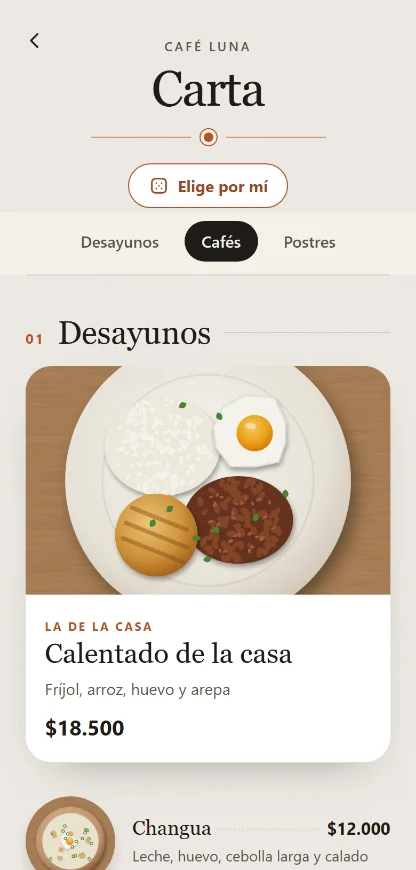
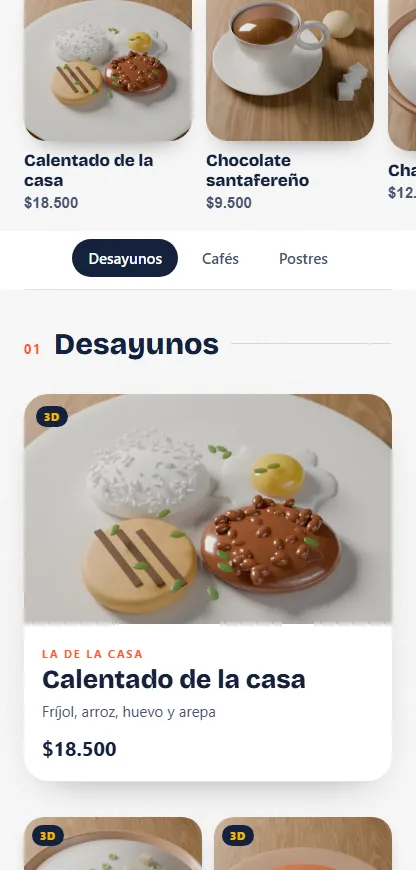
página de ventas al día y baldosas de la portada alineadas
- capturas del diseño C que se turnan en el celular de la portada, platos en 3D flotando
- sección nueva "El plato en 3D, y sobre su mesa" (3D, Verlo en tu mesa, Elige por mí, QR de compra)
- foco en restaurantes: menú, cinta y "Para quién"; gimnasios escondido por ahora
- portada del negocio: ícono y texto de las baldosas alineados a la izquierda

diff --git a/public/index.html b/public/index.html
@@ -66,6 +66,31 @@ nav .entrar:hover { text-decoration: underline; text-underline-offset: 4px; }
 .hero .vis { position: relative; height: 440px; border-radius: 28px; background: var(--arena); overflow: hidden; }
 .hero .tel { position: absolute; right: 8%; top: 32px; width: 210px; border-radius: 30px; border: 7px solid var(--tinta); background: var(--tinta); transform: rotate(4deg); box-shadow: 0 30px 40px -20px rgba(29,27,24,.45); }
 .hero .tel img { border-radius: 23px; width: 100%; height: auto; }
+.hero .pantallas { position: relative; aspect-ratio: 416 / 870; border-radius: 23px; overflow: hidden; }
+.hero .pantallas img { position: absolute; inset: 0; opacity: 0; animation: pantalla 12s infinite; }
+.hero .pantallas img:nth-child(1) { animation-delay: 0s; }
+.hero .pantallas img:nth-child(2) { animation-delay: 4s; }
+.hero .pantallas img:nth-child(3) { animation-delay: 8s; }
+@keyframes pantalla { 0% { opacity: 0; transform: scale(1.03); } 4%, 30% { opacity: 1; transform: none; } 36%, 100% { opacity: 0; } }
+.hero .flota { position: absolute; width: 110px; height: 110px; border-radius: 50%; object-fit: cover; box-shadow: 0 18px 30px -16px rgba(29,27,24,.55); border: 4px solid var(--blanco); animation: flota 6s ease-in-out infinite; }
+.hero .flota.f1 { left: 6%; top: 28px; }
+.hero .flota.f2 { left: 34%; top: 150px; width: 84px; height: 84px; animation-delay: -2s; }
+.hero .flota.f3 { right: 3%; bottom: 22px; width: 92px; height: 92px; animation-delay: -4s; }
+@keyframes flota { 0%, 100% { transform: translateY(0) rotate(-4deg); } 50% { transform: translateY(-12px) rotate(4deg); } }
+.lead-sec { max-width: 640px; margin-top: 14px; font-size: 18px; line-height: 1.5; color: var(--texto-2); }
+.vitrina { display: grid; gap: 16px; margin-top: 32px; }
+.vt { position: relative; display: flex; flex-direction: column; gap: 14px; padding: 20px; border-radius: 28px; background: var(--blanco); overflow: hidden; }
+.vt img { width: 100%; aspect-ratio: 1; object-fit: cover; border-radius: 20px; transition: transform .6s cubic-bezier(.2,.8,.2,1); }
+.vt:hover img { transform: scale(1.04) rotate(-1deg); }
+.vt h3 { font-family: var(--titulos); font-size: 22px; font-weight: 800; line-height: 1.15; }
+.vt p { margin-top: 6px; color: var(--texto-2); line-height: 1.45; }
+.vt .sello { position: absolute; top: 32px; left: 32px; padding: 5px 12px; border-radius: 99px; background: var(--tinta); color: #FFC93C; font: 800 13px var(--titulos); }
+.vt.oscura { background: var(--tinta); color: var(--blanco); }
+.vt.oscura p { color: #D8D2C8; }
+.vt.amarilla { background: #FFC93C; }
+.vt .dado { width: 64px; height: 64px; border-radius: 18px; display: grid; place-items: center; font-size: 34px; background: rgba(255,255,255,.14); animation: sacude 3s ease-in-out infinite; }
+.vt.amarilla .dado { background: rgba(29,27,24,.08); font-weight: 800; }
+@keyframes sacude { 0%, 70%, 100% { transform: rotate(0); } 76% { transform: rotate(-12deg); } 84% { transform: rotate(10deg); } 92% { transform: rotate(-6deg); } }
 .hero .punto { position: absolute; left: 8%; bottom: 36px; width: 128px; height: 128px; border-radius: 50%; background: var(--tinta); display: grid; place-items: center; transform: rotate(-8deg); }
 .hero .punto .ojo { width: 56px; height: 56px; overflow: visible; animation: late 1.2s ease .4s 1 both; }
 @keyframes late { 0% { transform: scale(1); } 35% { transform: scale(1.14); } 70% { transform: scale(.98); } 100% { transform: scale(1); } }
@@ -143,6 +168,9 @@ footer a { color: inherit; text-underline-offset: 3px; }
 footer { border-top: 1px solid var(--arena); padding: 24px 0 40px; display: flex; flex-wrap: wrap; gap: 8px 24px; justify-content: space-between; font-size: 14px; color: var(--gris); }
 
 @media (min-width: 900px) {
+  .vitrina { grid-template-columns: 1.3fr 1fr 1fr; grid-template-rows: auto auto; }
+  .vt.grande { grid-row: 1 / 3; }
+  .vt.grande img { aspect-ratio: 4 / 5; }
   :root { --lado: 24px; --entre-secciones: 128px; }
   body { font-size: 17px; }
   .et { font-size: 13px; }
@@ -241,7 +269,7 @@ footer { border-top: 1px solid var(--arena); padding: 24px 0 40px; display: flex
 <div class="w">
   <nav aria-label="Principal">
     <a class="logo" href="/" aria-label="Nef, inicio"><img src="/assets/marca/logo-nef.svg" alt="nef" width="96" height="36"></a>
-    <div class="links"><a href="#como-funciona">Cómo funciona</a><a href="#cafes">Cafés</a><a href="#gimnasios">Gimnasios</a><a href="#precios">Precios</a></div>
+    <div class="links"><a href="#como-funciona">Cómo funciona</a><a href="#carta-3d">Tu carta en 3D</a><a href="#cafes">Restaurantes</a><a href="#precios">Precios</a></div>
     <div class="acc"><a class="entrar" href="/panel">Entrar</a><a class="btn s js-wa" href="#cierre">Escríbenos</a></div>
   </nav>
 
@@ -258,11 +286,14 @@ footer { border-top: 1px solid var(--arena); padding: 24px 0 40px; display: flex
     </div>
     <!-- TODO(Jacobo): reemplazar por la foto real del sticker en una mesa (WebP, 1200×1400). Mientras tanto: la captura del portal. -->
     <div class="vis" aria-hidden="true">
-      <div class="tel"><img src="/assets/img/portal-cafe.webp" alt="" width="416" height="870" fetchpriority="high"></div>
+      <div class="tel"><div class="pantallas"><img src="/assets/img/portal-cafe.webp" alt="" width="416" height="870" fetchpriority="high"><img src="/assets/img/carta.webp" alt="" width="416" height="870" loading="lazy"><img src="/assets/img/monedas.webp" alt="" width="416" height="870" loading="lazy"></div></div>
+      <img class="flota f1" src="/assets/demo/huevos-rancheros.webp" alt="" width="600" height="600" loading="lazy">
+      <img class="flota f2" src="/assets/demo/chocolate.webp" alt="" width="600" height="600" loading="lazy">
+      <img class="flota f3" src="/assets/demo/torta-chocolate.webp" alt="" width="600" height="600" loading="lazy">
       <div class="punto"><span class="ondas"><i></i><i></i><i></i></span><svg class="ojo" viewBox="0 0 100 100" width="60" height="60" aria-hidden="true"><g class="globo"><circle cx="50" cy="50" r="42.32" fill="none" stroke="#FF6B35" stroke-width="7.36"/><g class="mira"><circle class="pupila" cx="50" cy="50" r="18.86" fill="#FF6B35"/></g></g></svg></div>
     </div>
   </header>
-  <div class="cinta" aria-hidden="true"><div><span>Cafés</span><span>Gimnasios</span><span>Panaderías</span><span>Restaurantes</span><span>Barberías</span><span>Heladerías</span><span>Salones</span><span>Cafés</span><span>Gimnasios</span><span>Panaderías</span><span>Restaurantes</span><span>Barberías</span><span>Heladerías</span><span>Salones</span></div></div>
+  <div class="cinta" aria-hidden="true"><div><span>Restaurantes</span><span>Asaderos</span><span>Comida típica</span><span>Pizzerías</span><span>Cafés</span><span>Brunch</span><span>Panaderías</span><span>Heladerías</span><span>Cevicherías</span><span>Parrillas</span><span>Restaurantes</span><span>Asaderos</span><span>Comida típica</span><span>Pizzerías</span><span>Cafés</span><span>Brunch</span><span>Panaderías</span><span>Heladerías</span><span>Cevicherías</span><span>Parrillas</span></div></div>
 
   <!-- 2. Cómo funciona -->
   <section class="sec" id="como-funciona">
@@ -278,13 +309,30 @@ footer { border-top: 1px solid var(--arena); padding: 24px 0 40px; display: flex
     </div>
   </section>
 
+  <!-- 2b. La carta en 3D -->
+  <section class="sec" id="carta-3d">
+    <div class="et">Tu carta, como nunca la han visto</div>
+    <h2 class="t1">El plato en 3D, y sobre su mesa.</h2>
+    <p class="lead-sec">Tus clientes giran el plato con el dedo antes de pedirlo y lo ven a tamaño real sobre su mesa. Sin apps.</p>
+    <div class="vitrina">
+      <article class="vt grande"><img src="/assets/demo/calentado.webp" alt="Calentado en 3D" width="600" height="600" loading="lazy"><span class="sello">3D</span>
+        <div><h3>Gíralo con el dedo</h3><p>Cada plato de tu carta en 3D, con sus colores reales. Así se antojan antes de pedir.</p></div></article>
+      <article class="vt"><img src="/assets/demo/chocolate.webp" alt="" width="600" height="600" loading="lazy">
+        <div><h3>"Verlo en tu mesa"</h3><p>Con la cámara, el plato aparece sobre su mesa a tamaño real. Saben cuánto es antes de pedirlo.</p></div></article>
+      <article class="vt oscura"><div class="dado" aria-hidden="true"><svg viewBox="0 0 24 24" width="34" height="34" fill="none" stroke="currentColor" stroke-width="2" stroke-linecap="round"><rect x="4" y="4" width="16" height="16" rx="4"/><path d="M9 9h.01M15 9h.01M12 12h.01M9 15h.01M15 15h.01"/></svg></div>
+        <div><h3>"Elige por mí"</h3><p>¿No saben qué pedir? Una tragamonedas con sonido gira tu carta y les sugiere un plato. Siempre algo disponible.</p></div></article>
+      <article class="vt amarilla"><div class="dado" aria-hidden="true"><svg viewBox="0 0 24 24" width="34" height="34" fill="none" stroke="currentColor" stroke-width="2"><rect x="4" y="4" width="6" height="6"/><rect x="14" y="4" width="6" height="6"/><rect x="4" y="14" width="6" height="6"/><path d="M14 14h2v2h-2zM18 18h2v2h-2z"/></svg></div>
+        <div><h3>Monedas con un QR</h3><p>El cajero marca lo que compró, el cliente escanea y gana monedas por el valor real. Sin digitar nada.</p></div></article>
+    </div>
+  </section>
+
   <!-- 3. Para cafés / Para gimnasios -->
   <section class="sec" id="cafes">
     <div class="et">Para quién</div>
-    <h2 class="t1">Para el café de la esquina y para el gimnasio de tres pisos.</h2>
+    <h2 class="t1">Para el restaurante del barrio y para la cadena con sedes.</h2>
     <div class="nichos">
       <article class="nicho cafe">
-        <div class="et">Cafés y restaurantes</div>
+        <div class="et">Restaurantes y cafés</div>
         <h3>La reseña llega justo después del postre.</h3>
         <ul>
           <li>Tu carta siempre al día: marcas "agotado" desde el celular y todas las mesas cambian.</li>
@@ -294,7 +342,7 @@ footer { border-top: 1px solid var(--arena); padding: 24px 0 40px; display: flex
         </ul>
         <div class="frase">"Este mes volvieron 184 clientes."<small>Así te lo dice el panel (ejemplo).</small></div>
       </article>
-      <article class="nicho gym" id="gimnasios">
+      <article class="nicho gym" id="gimnasios" hidden>
         <div class="et">Gimnasios</div>
         <h3>Sabe quién se va antes de que cancele.</h3>
         <ul>

diff --git a/public/assets/portal.css b/public/assets/portal.css
@@ -762,3 +762,4 @@ html.n-hoja-abierta, html.n-hoja-abierta body { overflow: hidden; overscroll-beh
 [data-tema="calido"] .pt-inicio .pt-enlaces.pt-puntos { display: flex; flex-wrap: wrap; justify-content: center; gap: 8px; margin-top: 22px; }
 [data-tema="calido"] .pt-inicio .pt-puntos > a, [data-tema="calido"] .pt-inicio .pt-puntos > details > summary { padding: 9px 16px; border-radius: var(--r-pildora); background: var(--papel-hondo); color: var(--tinta); font-weight: 600; text-decoration: none; }
 [data-tema="calido"] .pt-inicio .pt-puntos > :not(:last-child)::after { content: none; }
+[data-tema="calido"] .pt-inicio .pt-boton:not(.principal) > * { align-self: flex-start; grid-column: auto; grid-row: auto; }

diff --git a/docs/DECISIONES.md b/docs/DECISIONES.md
@@ -97,3 +97,4 @@ Formato: fecha · decisión · por qué. Las más recientes arriba.
 - 2026-11-25 · **El cliente LEE el QR de la caja** (Jacobo: la caja muestra un QR y la tarjeta también mostraba uno, confuso): donde el navegador sabe leer QR (Chrome Android, BarcodeDetector) el botón principal de la tarjeta es "Escanear el QR de la caja"; "Mostrar mi código" queda como enlace. En iPhone se escanea con la cámara del teléfono.
 - 2026-11-25 · **Admin enfocado en restaurantes** (Jacobo: "por ahora solo restaurante, aún no tenemos para gyms"): sector "Restaurante o café"; "Gimnasio" escondido tras "Ver más sectores" (visible si el negocio ya es gimnasio); "Entrada por NFC" solo con gimnasio; textos claros en Estudio y en los estilos del portal. **Guías paso a paso en /admin** (motor de `panel/tutorial.js`, ahora reutilizable): "Guía" del panel (pestañas) y "¿Qué es cada cosa?" dentro de Editar negocio, campo por campo (`public/assets/admin-guia.js`).
 - 2026-11-25 · **El admin ve /panel como cualquier dueño**: `es_mi_negocio` y `panel_negocios` incluyen al admin (rol "admin"), con aviso arriba y selector de negocio. No da poder nuevo: el admin ya lo puede todo por `admin_todo`. · Conversión a reseña con tope de 100 % (quien entra por link directo no suma visita pero sí puede tocar "reseña"). · Vista previa del estilo en el formulario del admin: la portada acepta `?vista=<tema>&color=<hex>` solo para la apariencia.
+- 2026-11-25 · **Página de ventas al día** (Jacobo: "la siento vacía"): capturas del diseño C (portal, carta, monedas) que se turnan solas en el celular de la portada, platos en 3D flotando, sección nueva "Tu carta en 3D" (3D, Verlo en tu mesa, Elige por mí, QR de compra), foco en restaurantes (menú, cinta, "Para quién"); gimnasios escondido por ahora. Para la captura del club se inscribió una clienta ficticia "Laura" (3009990001) en la demo Café Luna.
